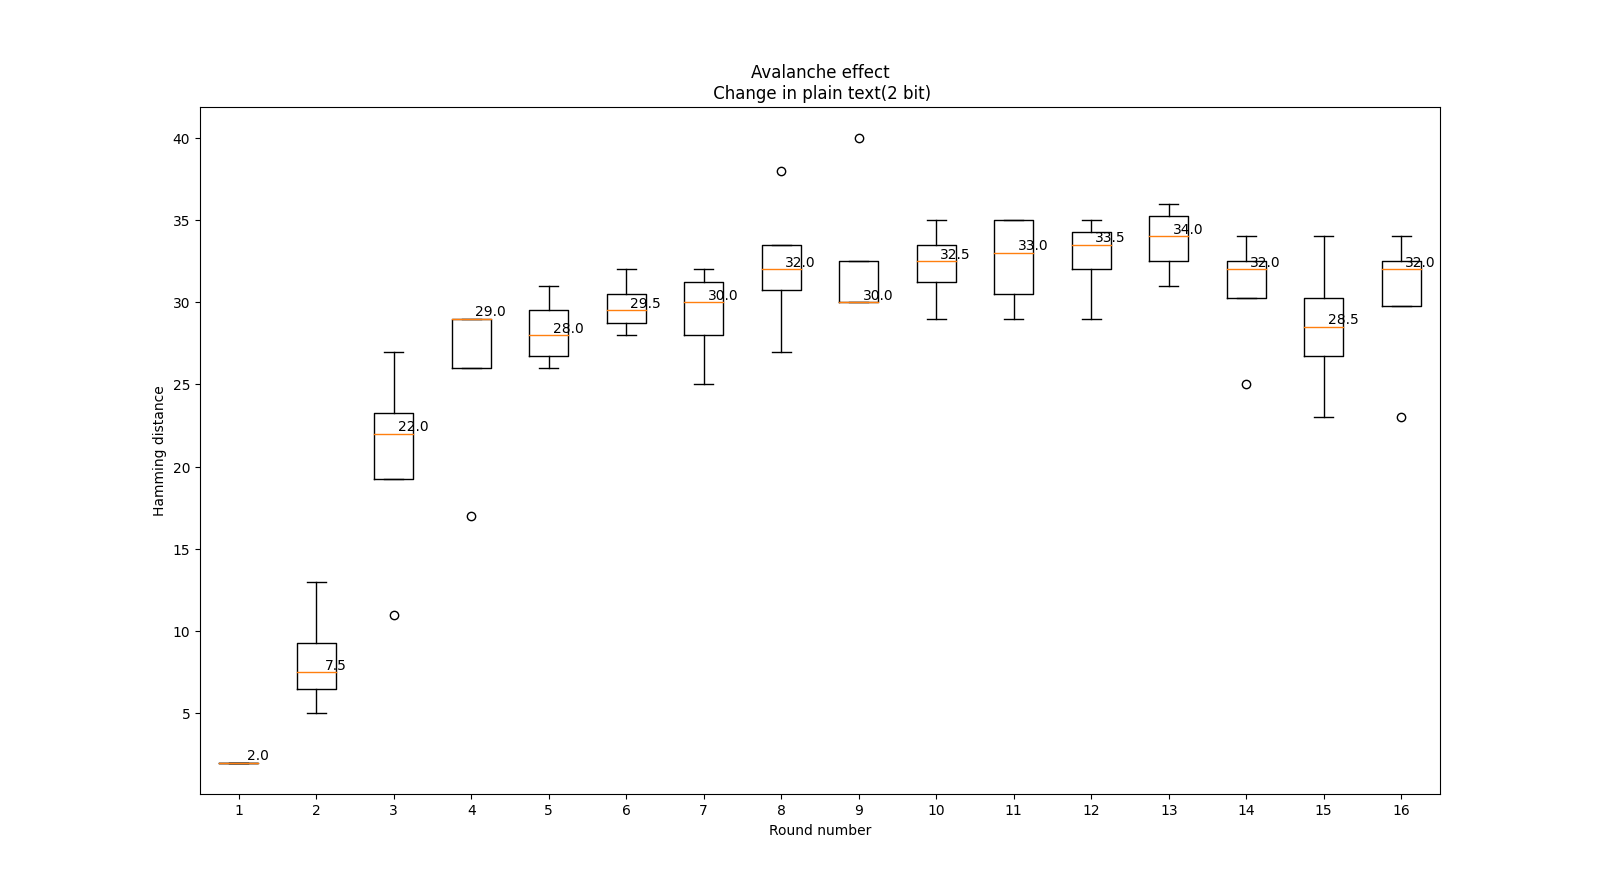
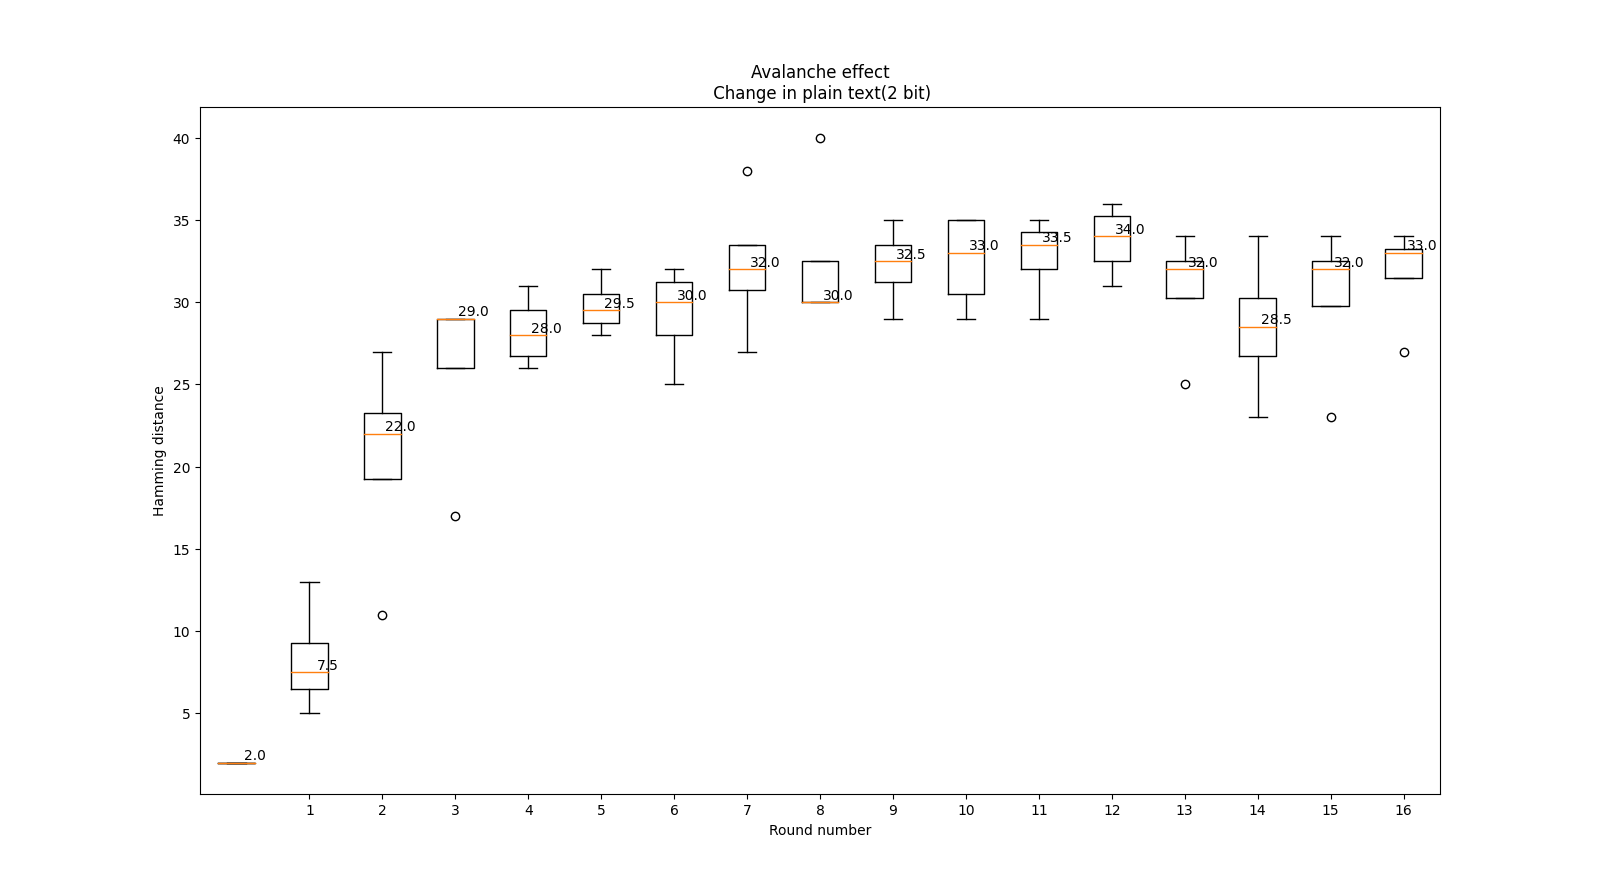
Add files via upload

diff --git a/DES_enc.py b/DES_enc.py
@@ -323,17 +323,17 @@ def DES(pt,key):
 
 #texts = ["0123456789ABCDEF", "ABCDEF0123456789", "1234ABCD5678EF90", "1A2B3C4D5E6F7890", "A0B1C2D3E4F56789"]
 #1bit_change
-texts = ["0123456789ABCDEF", "1123456789ABCDEF", "2123456789ABCDEF", "4123456789ABCDEF", "8123456789ABCDEF"]
+#texts = ["0123456789ABCDEF", "1123456789ABCDEF", "2123456789ABCDEF", "4123456789ABCDEF", "8123456789ABCDEF"]
 #2bit_change
 #texts = ["0123456789ABCDEF", "3123456789ABCDEF", "C123456789ABCDEF", "A123456789ABCDEF", "9123456789ABCDEF"]
 #3bit_change
 #texts = ["0123456789ABCDEF", "E123456789ABCDEF", "D123456789ABCDEF", "B123456789ABCDEF", "7123456789ABCDEF"]
 #4bit change
-# texts = ["0123456789ABCDEF", "3723456789ABCDEF", "6D23456789ABCDEF", "C823456789ABCDEF", "5423456789ABCDEF"]
+#texts = ["0123456789ABCDEF", "3723456789ABCDEF", "6D23456789ABCDEF", "C823456789ABCDEF", "5423456789ABCDEF"]
 #5bit change
-#texts = ["0123456789ABCDEF", "E723456789ABCDEF", "DD23456789ABCDEF", "B823456789ABCDEF", "7423456789ABCDEF"]
+texts = ["0123456789ABCDEF", "E723456789ABCDEF", "DD23456789ABCDEF", "B823456789ABCDEF", "7423456789ABCDEF"]
 #1 bit change
-keys = ["013898371520F75E", "113898371520F75E", "213898371520F75E", "413898371520F75E", "813898371520F75E"]
+#keys = ["013898371520F75E", "113898371520F75E", "213898371520F75E", "413898371520F75E", "813898371520F75E"]
 #2 bit change
 #keys = ["013898371520F75E", "313898371520F75E", "C13898371520F75E", "A13898371520F75E", "913898371520F75E"]
 #3 bit change
@@ -341,35 +341,35 @@ keys = ["013898371520F75E", "113898371520F75E", "213898371520F75E", "41389837152
 # 4 bit change
 #keys = ["013898371520F75E", "373898371520F75E", "6D3898371520F75E", "C83898371520F75E", "543898371520F75E"]
 #5 bit change
-#keys = ["013898371520F75E", "E73898371520F75E", "DD3898371520F75E", "B83898371520F75E", "743898371520F75E"]
+keys = ["013898371520F75E", "E73898371520F75E", "DD3898371520F75E", "B83898371520F75E", "743898371520F75E"]
 
 mat = []
-title = "Avalanche effect\n Change in plain text(1 bit)"
+title = "Avalanche effect\n Change in key(5 bit)"
 
 # data manipulation
 
-#for text manipulation
-for text in texts:
-	mat.append(DES(text, keys[0]))
-	intermediate = []
-print(mat)
-
-# #for key manipulation
-# for key in keys:
-# 	mat.append(DES(texts[0], key))
+# #for text manipulation
+# for text in texts:
+# 	mat.append(DES(text, keys[0]))
 # 	intermediate = []
 # print(mat)
+
+#for key manipulation
+for key in keys:
+	mat.append(DES(texts[0], key))
+	intermediate = []
+print(mat)
 
 
 result = []
 for i in range(1,5):
 	t =[]
-	for j in range(0,16):
+	for j in range(0,17):
 		t.append(hamming(hex2bin(mat[0][j]), hex2bin(mat[i][j]) ))
 	result.append(t)
 	
 tr = []
-for i in range(0,16):
+for i in range(0,17):
 	t = []
 	for j in range(0,4):
 		t.append(result[j][i])
@@ -385,6 +385,7 @@ plt.xlabel('Round number')
 
 for line in bp['medians']:
     x, y = line.get_xydata()[1]
+    ax.set_xticks(range(2, len(tr)+1))
     # ax.axvline(x, color='red')
     ax.text(x, y, '{:.1f}'.format(y), ha='center', va='bottom')
 
